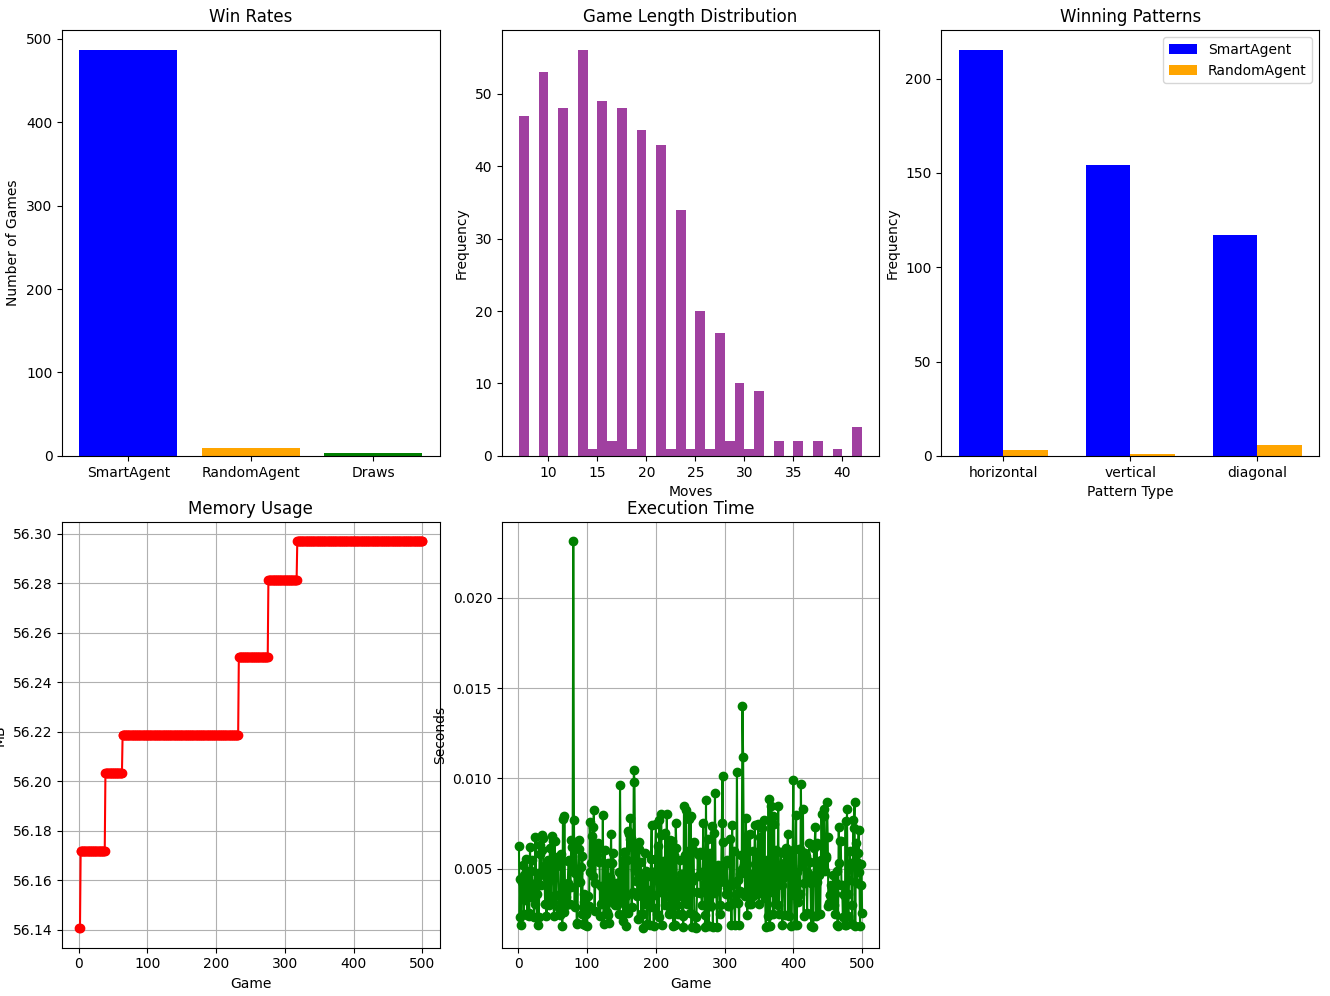
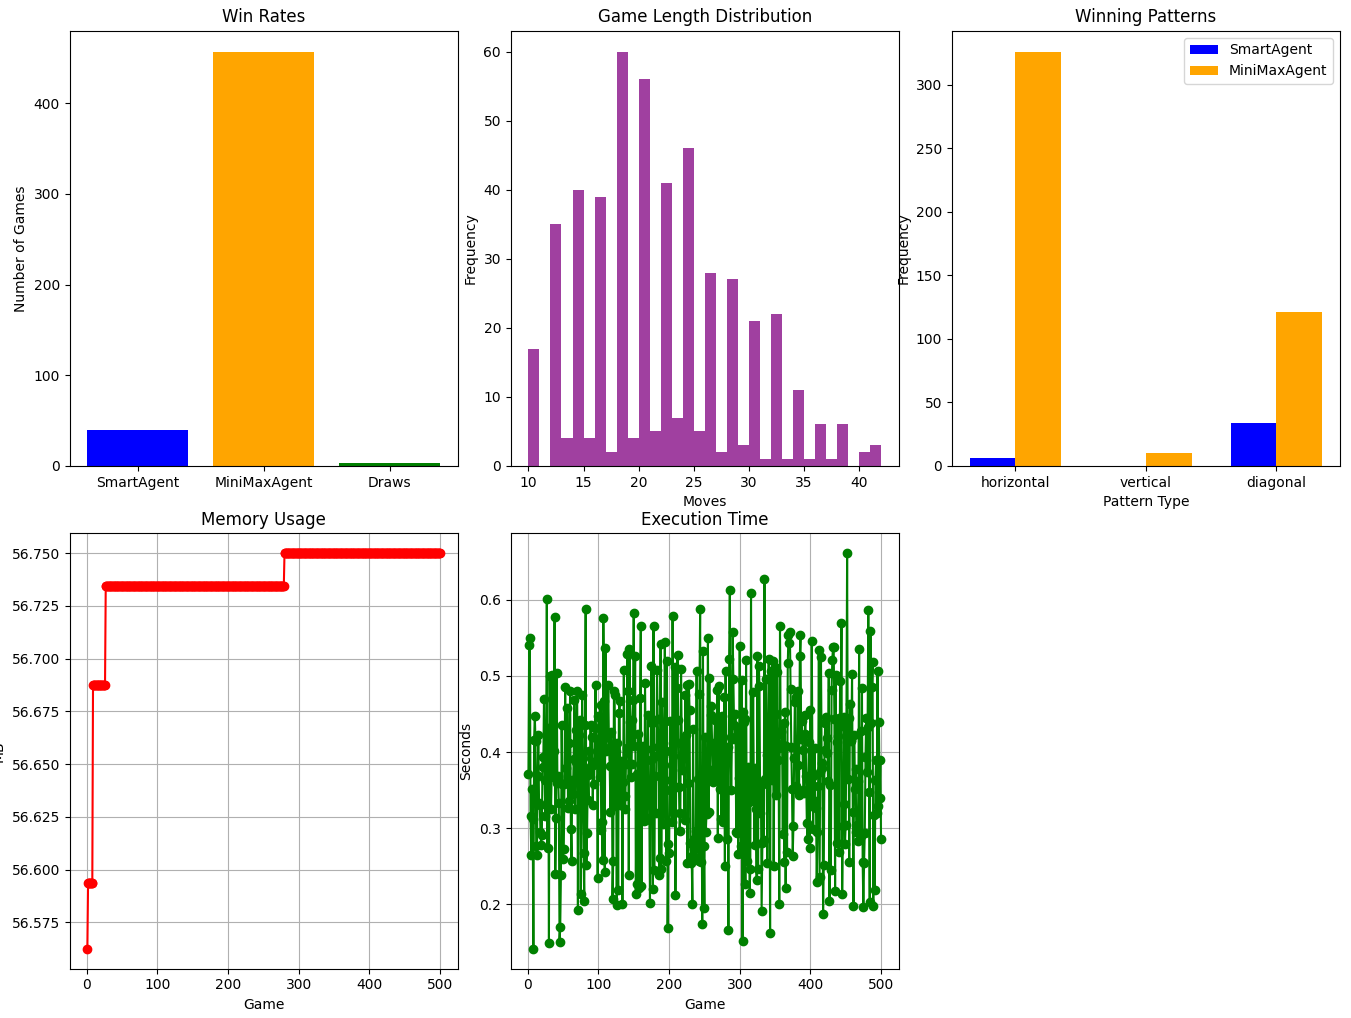
core: simulated games between smart and minimax

diff --git a/src/evalutation.py b/src/evalutation.py
@@ -14,7 +14,7 @@ from agents.random_agent import RandomAgent
 
 # -> smart agent vs. minimax agent
 # smart = SmartAgent(AMOUNT_ROWS, AMOUNT_COLUMNS, PLAYER_ONE_SYMBOL)
-# minimax_agent = RandomAgent(AMOUNT_ROWS, AMOUNT_COLUMNS, PLAYER_TWO_SYMBOL)
+# minimax_agent = MiniMaxAgent(AMOUNT_ROWS, AMOUNT_COLUMNS, PLAYER_TWO_SYMBOL)
 # simulator = GameSimulator(smart, PLAYER_ONE_SYMBOL, minimax_agent, PLAYER_TWO_SYMBOL)
 # simulator.simulate(500)
 
